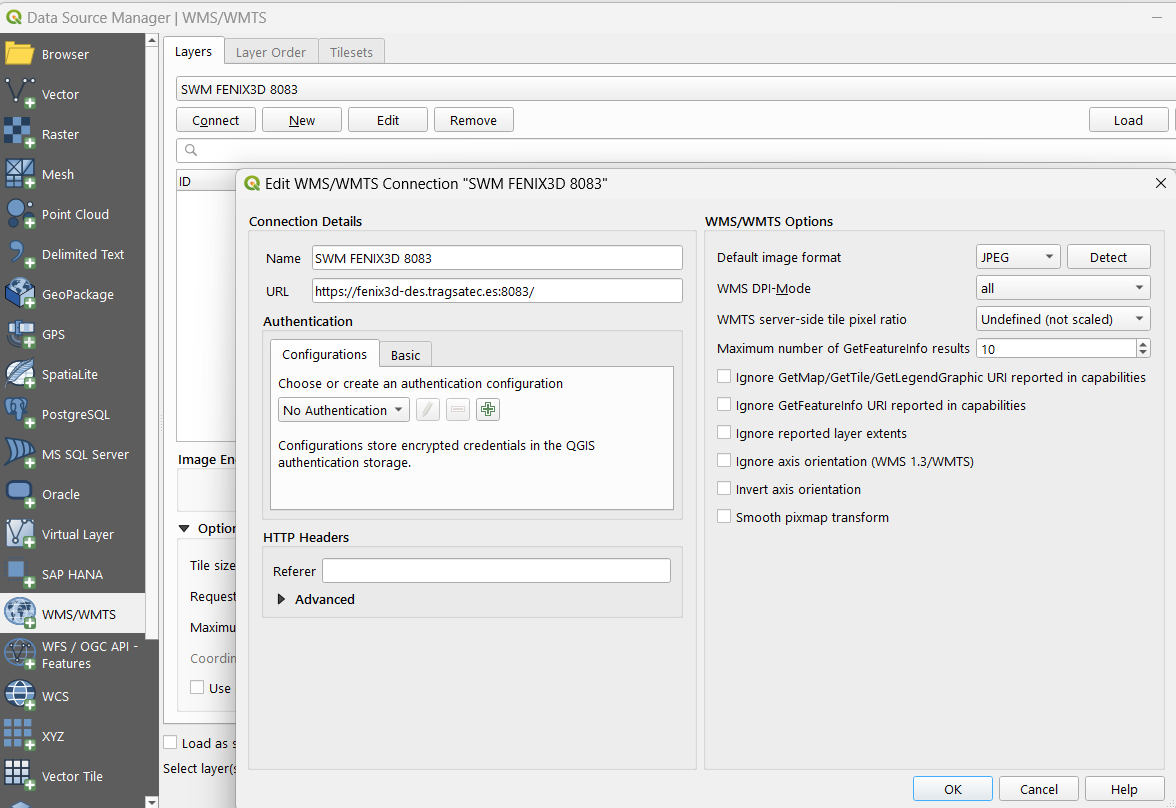
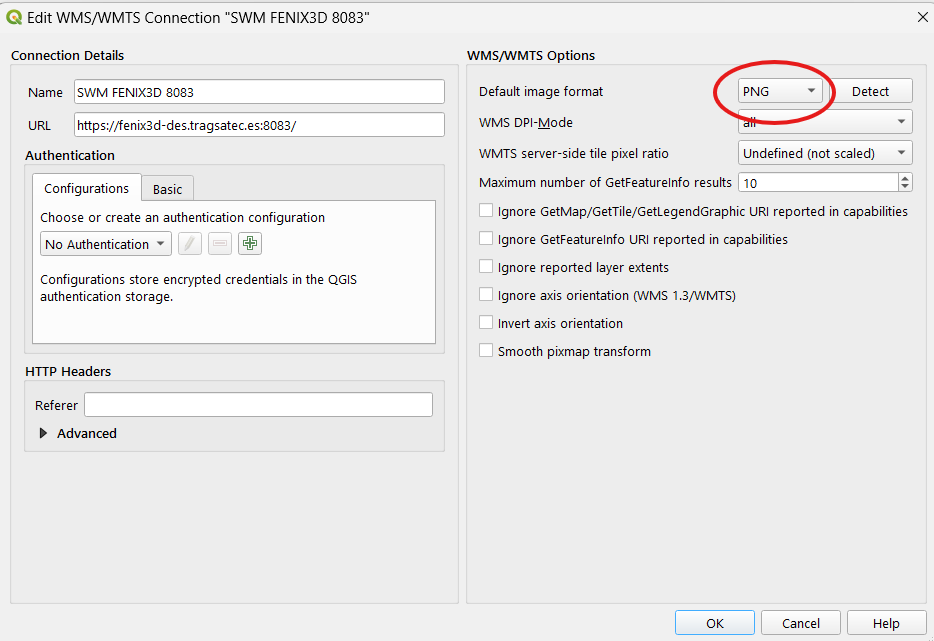
\ Corret details"

diff --git a/readme.md b/readme.md
@@ -140,13 +140,18 @@ Expected behavior:
 - Because the images are rotated, stereoscopy is not clearly visible in these cases.
 - The ability to rotate images horizontally must be implemented to overcome this limitation.
 
+### The SWM server is experiencing problems with the quality of JPEG images.
+- The JPEG images are being served in very low quality.
+- Request the images from the StereoWebMap server in **png** format ![](docs/images/010-configure-stereoWebMap-service-connection.png)
+
+
 ---
 
 ## 8. Future work
 
 The most immediate developments from this baseline version are:
 
-- Check whether bugs previously detected by Conrado and Andrea/Ada in earlier versions persist in this version and architecture. Fix as needed.
+- Correct the issues pointed out in the previous section.
 - Test and refine the stereoscopic rendering on different hardware setups, especially the dual-screen with a 45-degree mirror.
 - Add visualization support for **anaglyph** and **interlaced horizontal lines** systems.
 - Begin incorporating delineation tools that work directly on the stereoscopic views.